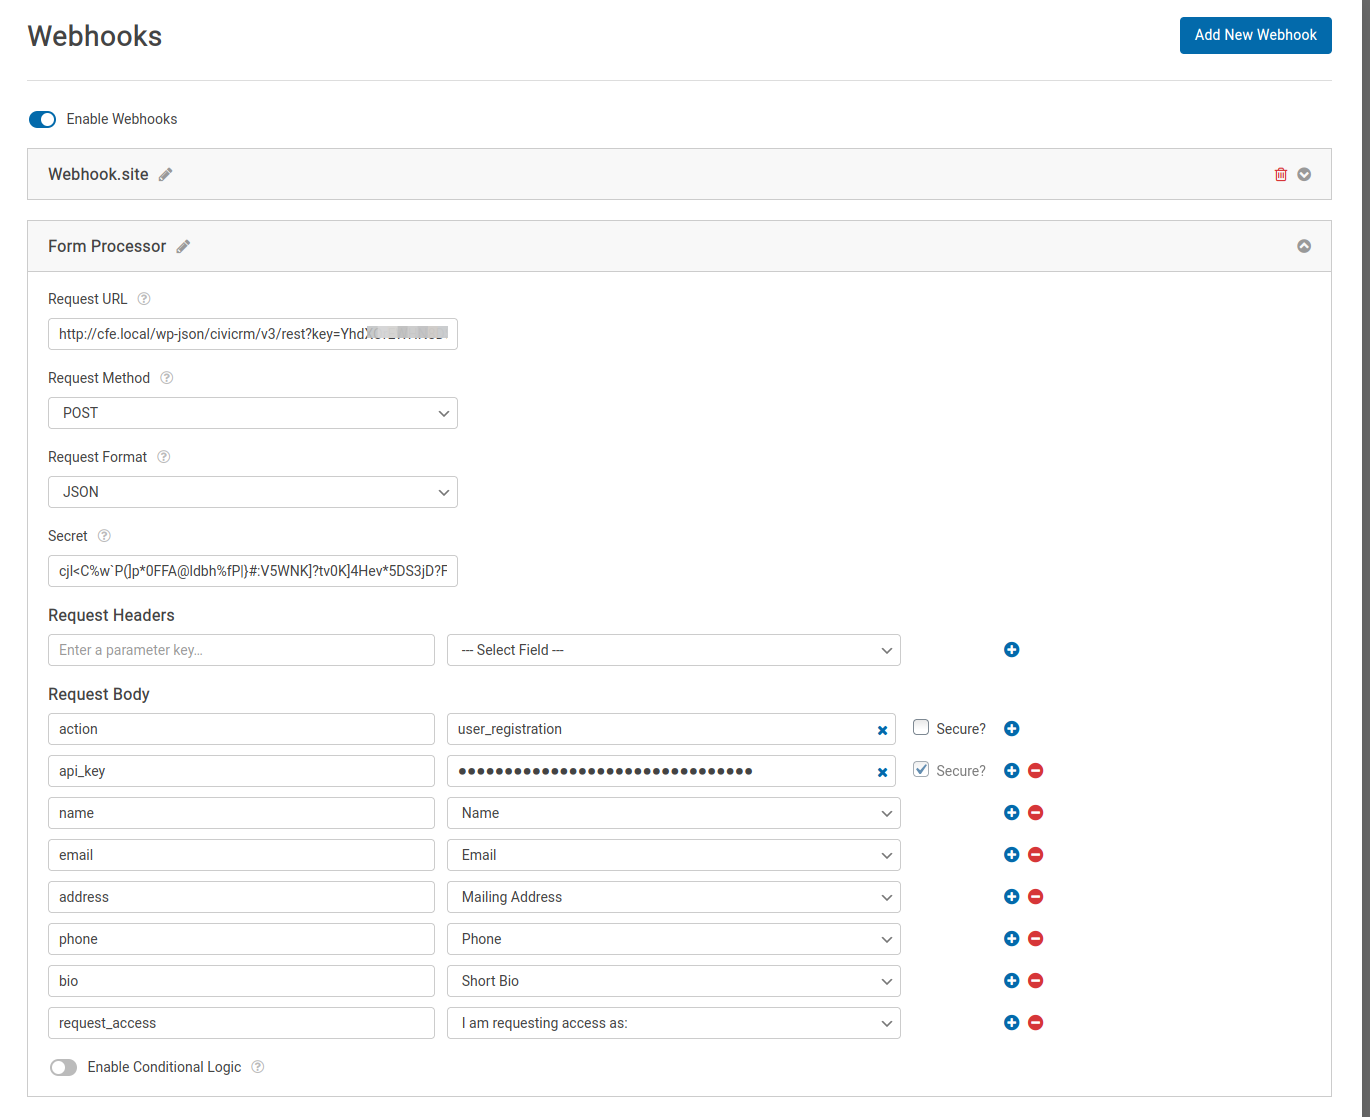
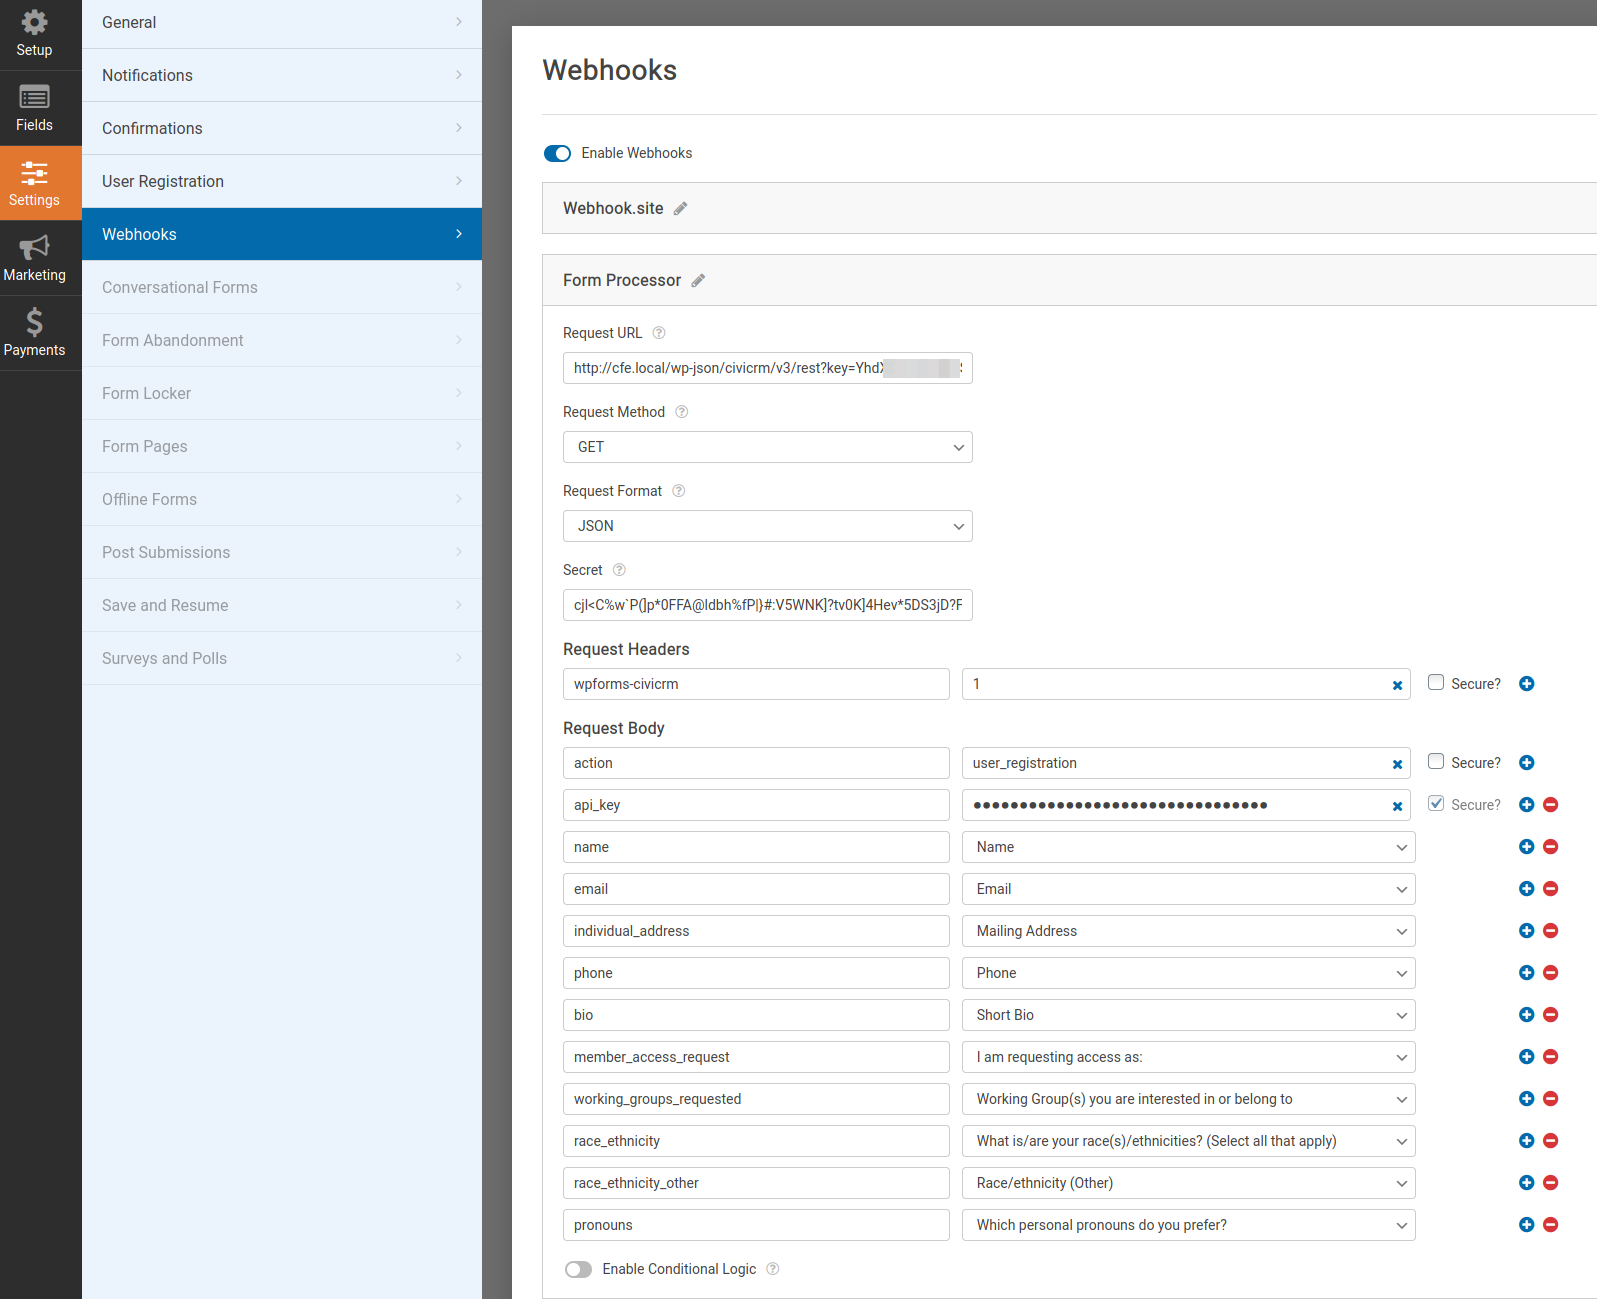
Update documentation, mark as version 1.1

Changed region(s): [[0.0, 0.0, 1.0, 1.0]]

diff --git a/wpforms-civicrm.php b/wpforms-civicrm.php
@@ -3,7 +3,7 @@
  * Plugin Name: WPForms CiviCRM
  * Plugin URI: http://github.com/MegaphoneJon/wpforms-civicrm
  * Description: Format WPForms webhooks to be suitable for use with CiviCRM's Form Processor extension.
- * Version: 1.0
+ * Version: 1.1
  * Author: Megaphone Technology Consulting
  * Author URI: https://www.megaphonetech.com
  */

diff --git a/README.md b/README.md
@@ -3,33 +3,39 @@
 A WordPress plugin to submit WPForms webhooks in the format Form Processor expects.
 
 ## Installation
+
 * You must already have WPForms and WPForms Webhooks plugins activated.
 * Download to your WP plugins directory and activate.
 
-## Setup
+## Using
+
 * Your *Request URL* should be your REST endpoint, with the site key appended as the URL paramter `key`.  E.g. `https://mysite.org/wp-json/civicrm/v3/rest?key=mysitekey`.
 * *Request Method* is **POST**, *Request Format* is **JSON**.
-* There are two required request body fields you must create: **action** with the machine name of your Form Processor instance, and `api_key` with the API key you want to use for your submissions.
-* Add all the other fields you want from your form.  The name you use for each field should match the name you use in Form Processor.
+* Add a Request Header with a name `wpforms-civicrm`.  The value can be anything.
+* There are two required request body fields you must create: `action` with the machine name of your Form Processor instance, and `api_key` with the API key you want to use for your submissions.
+* Add all the other fields you want from your form to the body.  For most fields (Single Line Text, Paragraph Text, Email, Phone, Dropdown, Checkboxes, etc.) the name for each bodt you use for each field should match the name you use in Form Processor.
+* For "Fancy Fields" (in WPForms Pro) that contain multiple subfields (e.g. name, address), the fields will be broken up before being passed to Form Processor.
+
+If your Name field is called `myname`, the fields passed to Form Processor will be: `myname_first`, `myname_middle`, and `myname_last`.
+If your Address field is called `myaddress` the fields passed will be: `myaddress_address1`, `myaddress_address2`, `myaddress_city`, `myaddress_state`, `myaddress_postal`, and `myaddress_country`.
 
 ![Screenshot](/images/screenshot.png)
 
 ## Why does this exist?
-WPForms Webhooks is almost, but not quite, suited to send data to Form Processor.  This plugin changes the format of the body to match what Form Processor expects.
+
+WPForms Webhooks is almost, but not quite, suited to send data to Form Processor.  This plugin changes the format of the body to match what Form Processor expects, and parses fields that aren't easily parsed on the CiviCRM side.
 
 ## Tips for use
-The "Fancy Fields" in WPForms are sent as a single field.  Either avoid their use, or use the "Other: Modify Value with Regular Expression" to pull out the individual pieces of data.
 
-Here are some regular expressions I use:
-* Split name into First and Last. If there is a space in any of the names, this will make the last word the last name, and the rest the first name:
-```
-/(.+)\s(\w+)$/
-```
-$1 is first name, $2 is last name.
+* It's easiest to see the contents of your webhook by passing it to a site like [https://webhook.site](https://webhook.site).
+* Because WPForms Webhooks sends asynchronously, it's often easiest to test by grabbing the payload from [https://webhook.site](https://webhook.site), saving it to a file `payload.json` and using `curl` to pass to Form Processor, e.g.:
 
-* Split Address into constituent pieces:
+```shell
+# The "-b XDEBUG_SESSION=VSCODE" is only if you're running XDebug with VS Code, otherwise you can leave it off.
+curl -X POST -H "Content-Type: application/json" -d @payload.json 'https://mysite.org/wp-json/civicrm/v3/rest?key=mysitekey' -b XDEBUG_SESSION=VSCODE
 ```
-/(.*)\|\|(.*)\|\|(.*), (.*)\|\|(.*)\|\|(.*)$/
-```
-$1 is Street Address, $2 is Street Address Line 2, $3 is City, $4 is State/Province, $5 is Postal Code, $6 is Country.
-Use the "Address: Get country ID by name/ISO code" and "Address: Get state/province ID by name" actions to get the country and state_province IDs for generating addresses.
+
+## Known issues
+
+* Password fields can't be passed to CiviCRM.
+* This is untested with the "Numbers", "Multiple Choice", "Number Slider", "Date/Time", "Website/URL", "File Upload", "Hidden Field", "Rating", "Rich Text" and payment fields. Most of these should work, but not all (without further improvement to the plugin).
